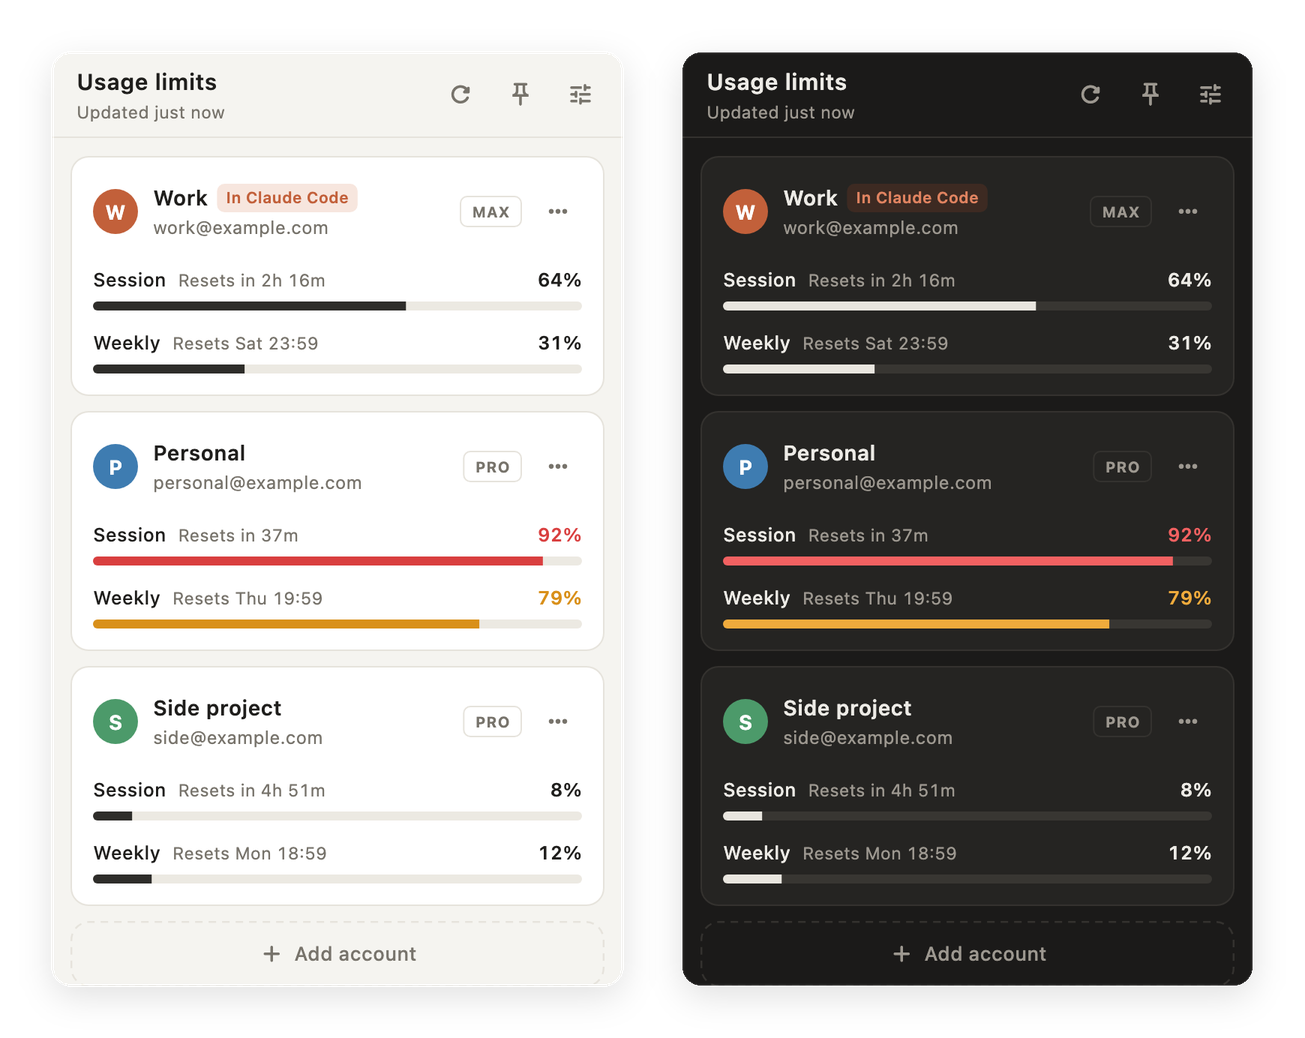
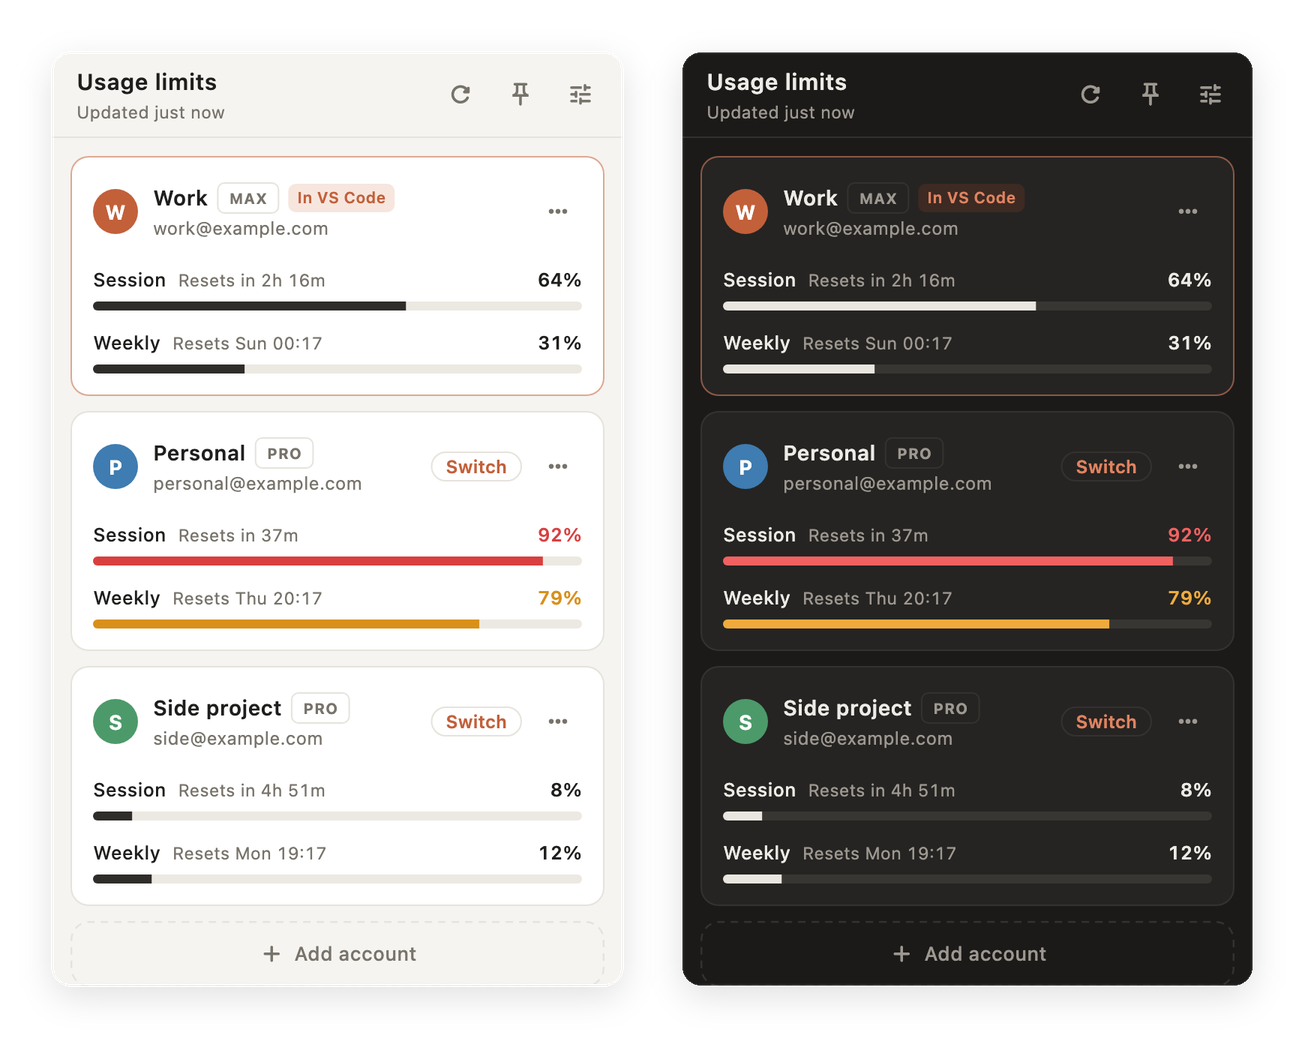
Document account switching and refresh the screenshot

diff --git a/README.md b/README.md
@@ -18,7 +18,7 @@
 - **Every account in one panel.** Each account shows its 5-hour session and weekly usage, with per-model weekly limits when your plan has them.
 - **Countdowns.** Each limit shows when it resets ("Resets in 2h 16m", "Resets Thu 19:59").
 - **Menu bar summary.** The menu bar shows each account's session usage (`64% · 92% · 8%`). Right-click it for a quick list.
-- **Shows which account Claude Code is using.** The account Claude Code is signed in with right now gets an **In Claude Code** tag.
+- **Switch VS Code to any account in one click.** Press **Switch** on a card, or pick the account from the menu bar's right-click menu. Claude Code in VS Code changes accounts without signing out; the account it uses has an **In VS Code** tag. This also works with VS Code Insiders, Cursor and Windsurf.
 - **Warning colours.** A bar turns amber at 75% and red at 90%.
 - **Open at login**, on by default. You can switch it off in Settings.
 - Light and dark mode follow the system.
@@ -55,15 +55,19 @@ Then click the gauge icon in the menu bar and choose **Add account**.
 
 > If your browser is already signed in to a different Claude account, sign out there first or open the sign-in link in a private window.
 
-## Use any account without signing out
+## Switching accounts
 
-Each card's ⋯ menu has **Copy terminal command**, for example:
+**Switch** sets `CLAUDE_CONFIG_DIR` in the Claude Code extension's `claudeCode.environmentVariables` setting, in your editor's user `settings.json`. The extension notices within a second, and new Claude chats use the new account. The app changes only that one setting and keeps your comments and formatting. It saves the previous version next to the file as `settings.json.usage-monitor-backup`.
+
+Switching to your main login, or to an account that is the same as your main login, removes the setting again, so Claude Code uses `~/.claude`.
+
+Each account folder has its own Claude Code settings, history and memory, separate from `~/.claude`.
+
+To use an account in the terminal, use **Copy terminal command** in the card's ⋯ menu:
 
 ```sh
 CLAUDE_CONFIG_DIR=~/.claude-accounts/work claude
 ```
-
-In VS Code, the `claudeCode.environmentVariables` setting accepts `CLAUDE_CONFIG_DIR` (as an absolute path) to run the extension with a profile. Each profile folder has its own settings, history and memory.
 
 ## Development
 
@@ -77,6 +81,7 @@ The code is in `lib/src/`:
 | File | What it does |
 |------|--------------|
 | `claude_cli.dart` | Finds the `claude` binary and talks to it |
+| `editor_settings.dart`, `jsonc.dart` | Switches the editor's account by editing its `settings.json` |
 | `monitor.dart` | Keeps the accounts and the refresh schedule |
 | `tray_panel.dart` | The menu bar item and the panel window |
 | `ui/` | The panel's screens |
